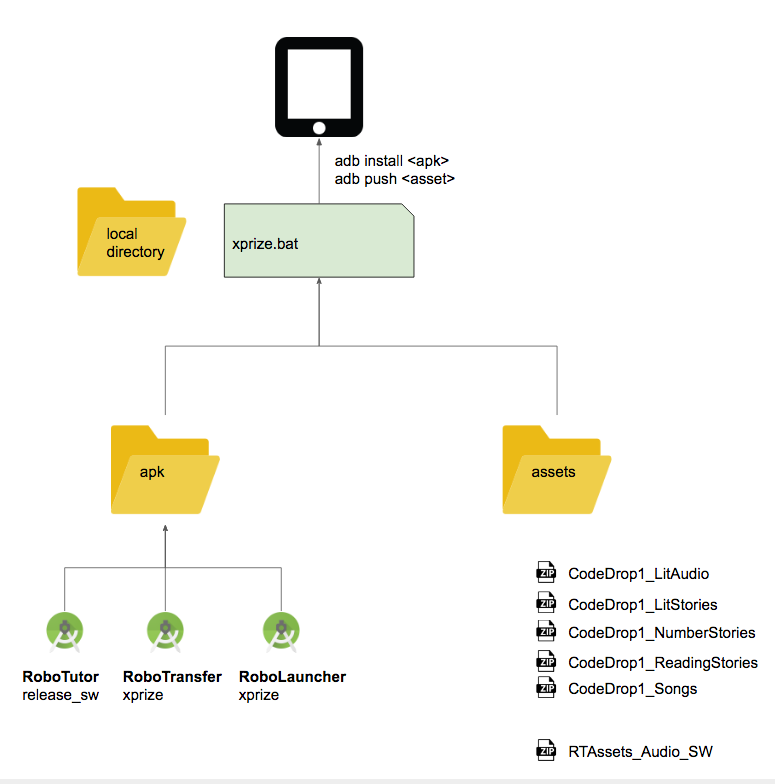
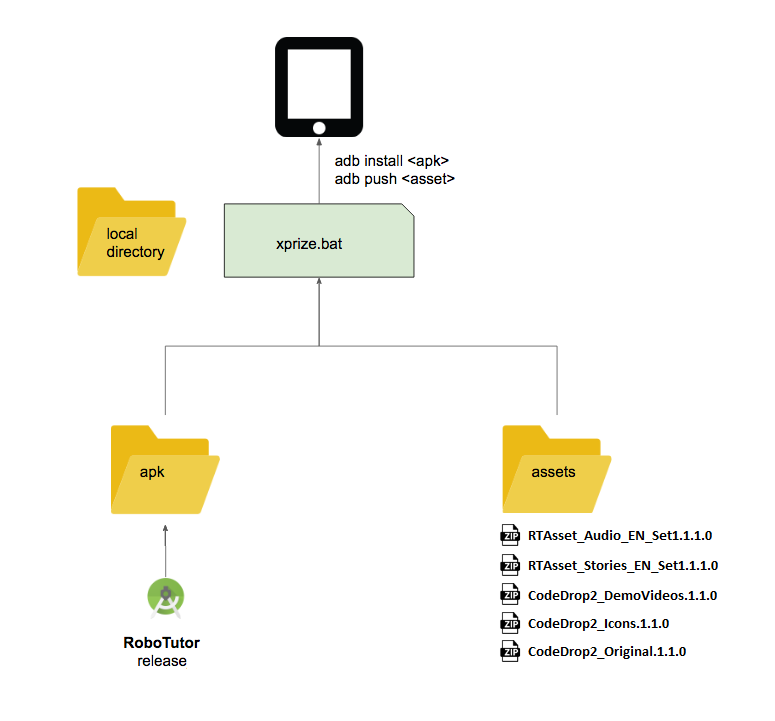
Updated architecture to remove RoboLaunch and RoboTransfer dependency

diff --git a/README.md b/README.md
@@ -7,18 +7,11 @@ This version was uploaded to XPRIZE on 11/20/2018. For subsequent changes, see [
 ### Preparing Installation
 
 1. Go to the [RoboTutor](https://github.com/XPRIZE/GLEXP-Team-RoboTutor-RoboTutor) repository and go to the **Building RoboTutor** section. Follow steps 1-7 to generate the APK robotutor.release.2.7.7.1.apk, and then copy it into the [apk](apk) folder.
+3. Go to the [RTAsset_Publisher](https://github.com/XPRIZE/GLEXP-Team-RoboTutor-RTAsset_Publisher) repository and go to the *Zipping Assets* section. Execute the vatch or shell files for English version (suffixed EN) and then copy it into the [assets](assets) folder.
 2. Go to the [CodeDrop2_Assets](https://github.com/XPRIZE/GLEXP-Team-RoboTutor-CodeDrop2-Assets) repostiory and go to the **XPrize Pre-Installation process** section. Follow steps 1-4 to generate the following zip files. Transfer these files to the [assets](assets) folder.
-	* CodeDrop1_LitAudio.1.1.0.zip
-	* CodeDrop1_LitStories.1.1.0.zip
-	* CodeDrop1_NumberStories.1.1.0.zip
-	* CodeDrop1_Songs.1.1.0.zip
 	* CodeDrop2_DemoVideos.1.1.0.zip
 	* CodeDrop2_Icons.1.1.0.zip
-	* CodeDrop2_MathStories.1.1.0.zip
 	* CodeDrop2_Original.1.1.0.zip
-	* CodeDrop2_PuncStories.1.1.0.zip
-	* CodeDrop2_ReadingStories.1.1.0.zip
-	* CodeDrop2_Tutors.1.1.0.zip
 3. After the listed APKs and assets have been added, your [apk](apk) and [assets](assets) directories should look like this:
 
 ![expected directory contents](img/expected_dirs.png)
